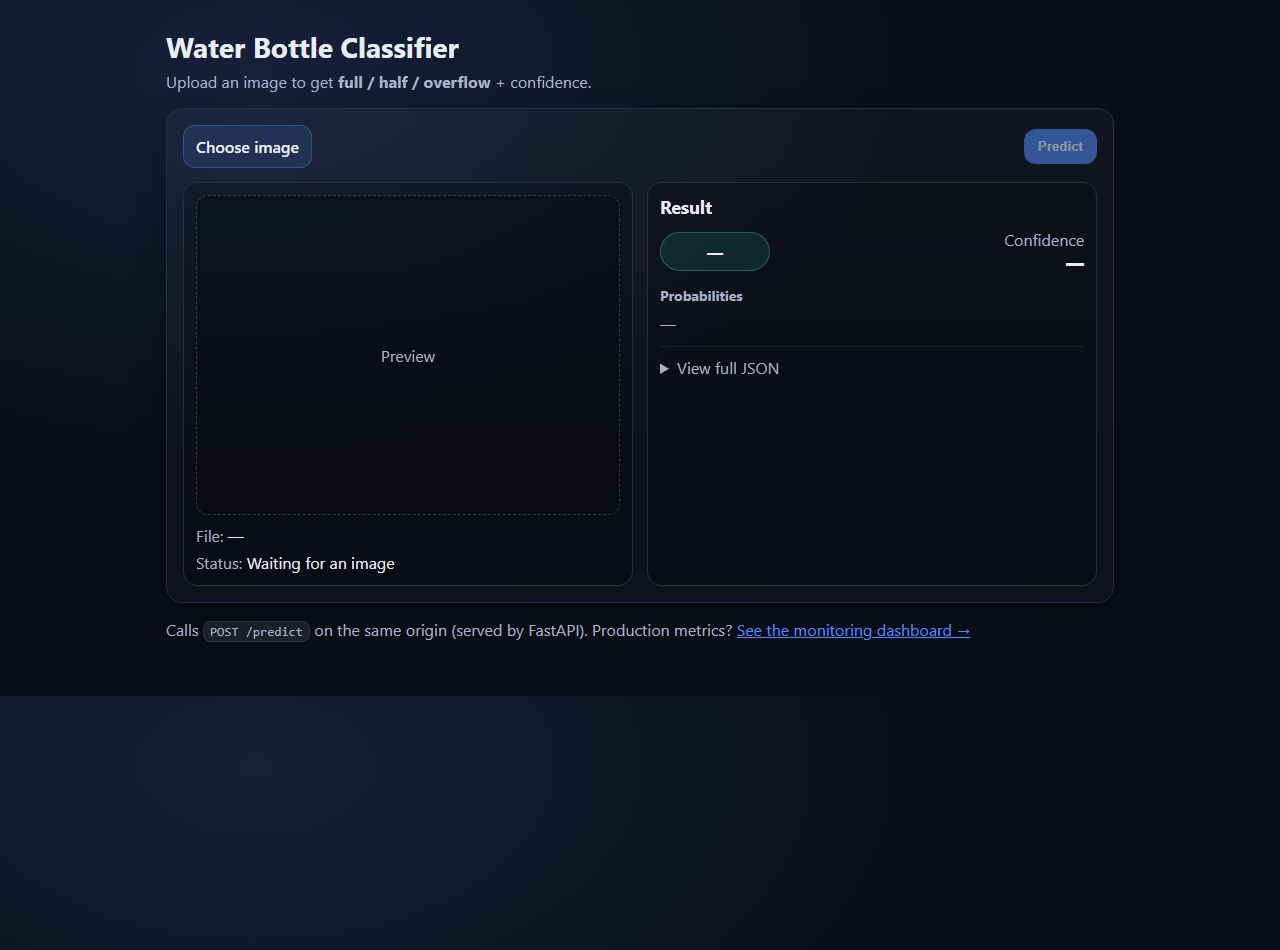
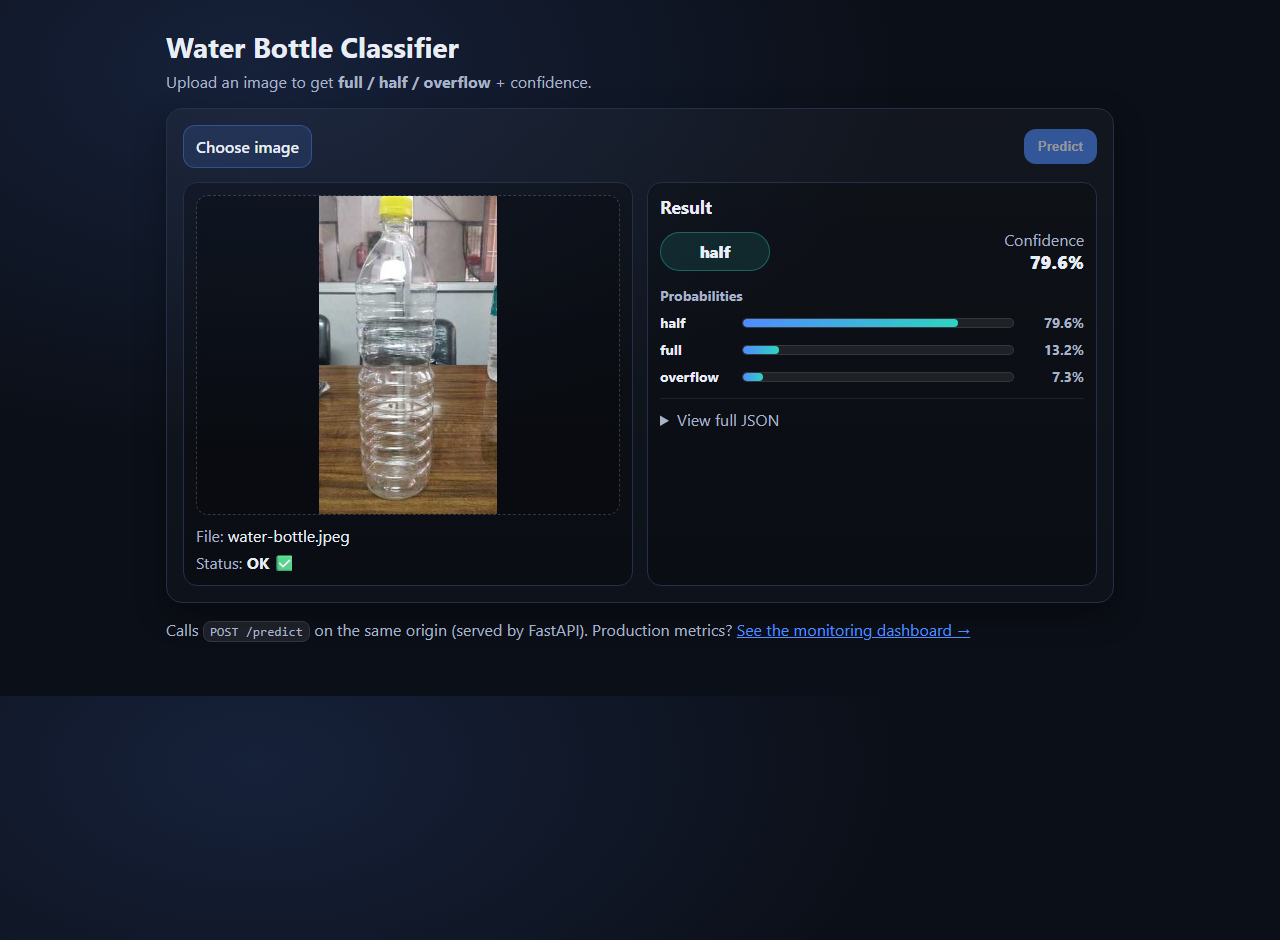
docs: show fill-level classes and a used-classifier screenshot in README; drop dashboard image

diff --git a/README.md b/README.md
@@ -17,13 +17,13 @@ retraining**, all containerized with Docker.
 
 ## Demo
 
-**Classifier** — upload an image and get the predicted fill level + confidence:
+The model classifies a bottle's fill level into three classes:
 
-![Classifier UI](docs/img/classifier.png)
+![Fill-level classes: full, half, overflow](docs/img/classes.png)
 
-**Monitoring dashboard** — prediction volume, class distribution, confidence, real accuracy (where labels exist) and PSI drift vs. the training baseline:
+Upload an image in the web UI to get the predicted class, its confidence and the per-class probabilities:
 
-![Monitoring dashboard](docs/img/dashboard.png)
+![Classifier UI showing a prediction](docs/img/classifier.png)
 
 ---
 